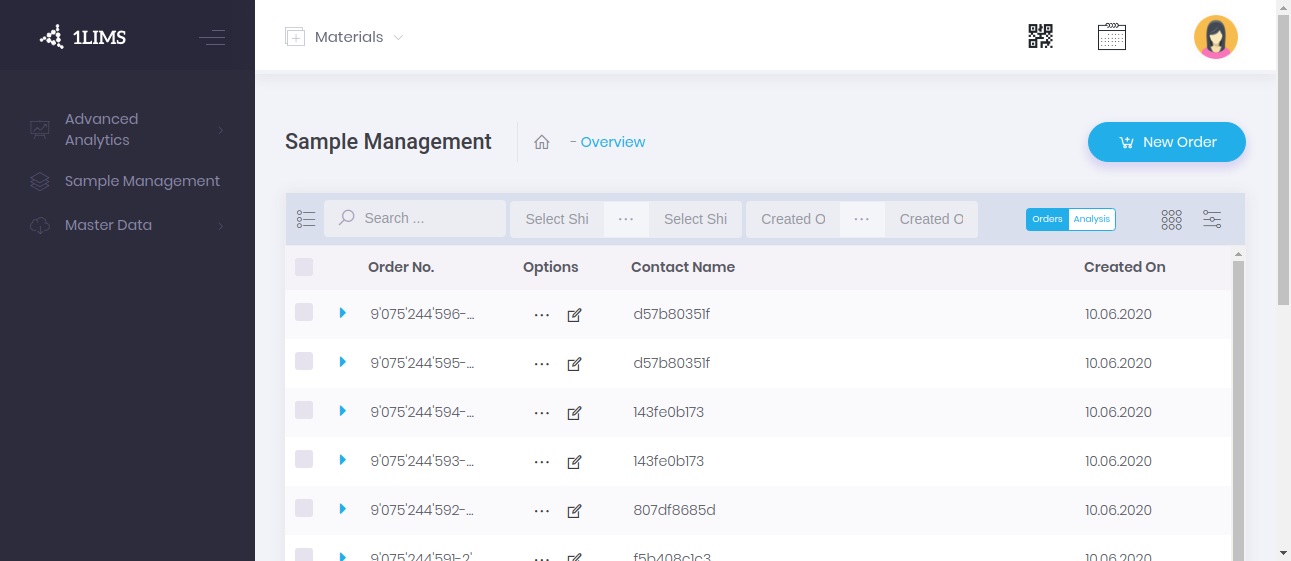
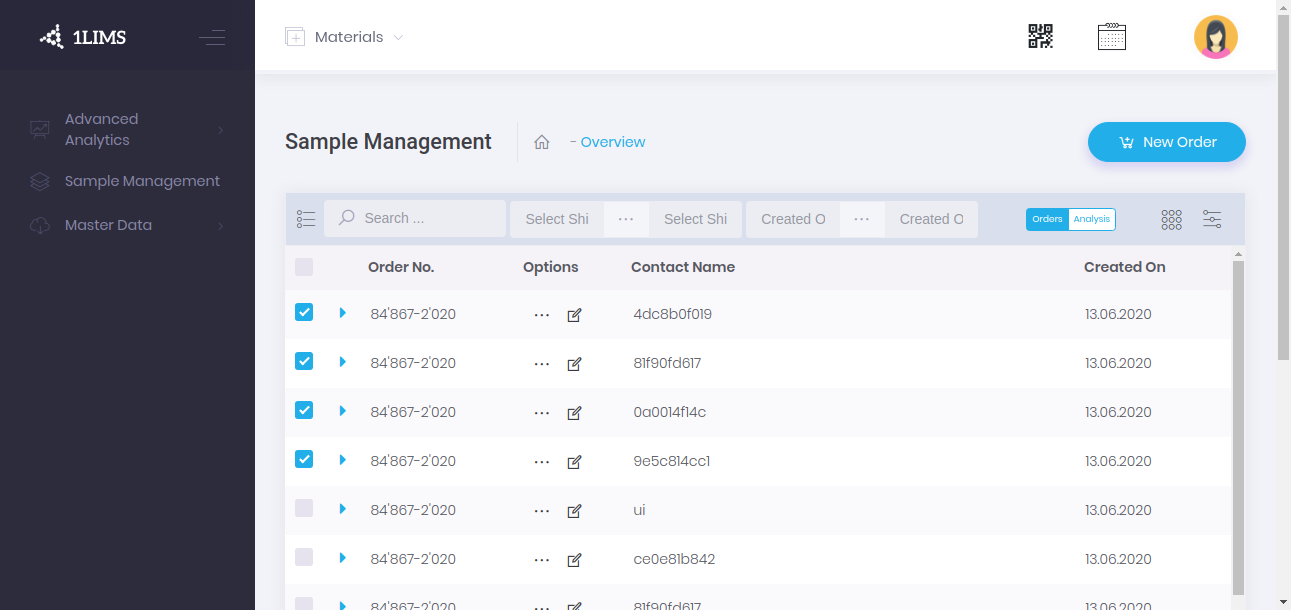
need to update formatted_orders_list

diff --git a/ui_testing/testcases/basic_tests/test06_orders.py b/ui_testing/testcases/basic_tests/test06_orders.py
@@ -2419,16 +2419,30 @@ class OrdersTestCases(BaseTest):
 
         LIMS-8085
         """
-        self.info(' * Download XSLX sheet')
+        self.info('select random order')
+        rows = self.order_page.select_random_ordered_multiple_table_rows()
+        rows_data = rows[0]
+        orders_no = [order['Order No.'] for order in rows_data]
+        order_data_list = []
+        for i in range(0, len(rows_data)):
+            order_dict = rows[0][i]
+            self.base_selenium.scroll()
+            self.order_page.open_child_table(rows[1][i])
+            child_table_data = self.order_page.get_table_data()
+            for sub_order in child_table_data:
+                order_dict.update(sub_order)
+                order_data_list.append(order_dict)
+
+            self.order_page.open_child_table(rows[1][i])
+        formatted_orders = self.order_page.match_format_to_sheet_format(order_data_list)
         self.order_page.download_xslx_sheet()
-        rows_data = self.order_page.get_table_rows_data()
-        for index in range(len(rows_data)):
-            self.info(' * Comparing the order no. {} '.format(index))
-            fixed_row_data = self.fix_data_format(rows_data[index].split('\n'))
+        for index in range(len(formatted_orders)):
+            import ipdb;ipdb.set_trace()
+            self.info('Comparing the order no {} '.format(formatted_orders[index][0]))
             values = self.order_page.sheet.iloc[index].values
-            fixed_sheet_row_data = self.fix_data_format(values)
-            for item in fixed_row_data:
-                self.assertIn(item, fixed_sheet_row_data)
+            self.assertCountEqual(values, formatted_orders[index])
+            for item in formatted_orders[index]:
+                self.assertIn(item, values)
 
 
 

diff --git a/ui_testing/pages/base_pages.py b/ui_testing/pages/base_pages.py
@@ -134,6 +134,29 @@ class BasePages:
             selected_rows_data.append(self.base_selenium.get_row_cells_dict_related_to_header(row=row))
         return selected_rows_data, selected_rows
 
+    def select_random_ordered_multiple_table_rows(self, element='general:table'):
+        _selected_rows_text = []
+        selected_rows_data = []
+        selected_rows = []
+        rows = self.base_selenium.get_table_rows(element=element)
+        no_of_rows = randint(min(2, len(rows)-1), min(5, len(rows)-1))
+        count = 0
+        self.info(' No. of selected rows {} '.format(no_of_rows))
+        while count < no_of_rows:
+            self.base_selenium.scroll()
+            row = rows[count]
+            row_text = row.text
+            if not row_text:
+                continue
+            if row_text in _selected_rows_text:
+                continue
+            count = count + 1
+            self.click_check_box(source=row)
+            _selected_rows_text.append(row_text)
+            selected_rows.append(row)
+            selected_rows_data.append(self.base_selenium.get_row_cells_dict_related_to_header(row=row))
+        return selected_rows_data, selected_rows
+
     def select_random_table_row(self, element='general:table'):
         self.info("select random row")
         rows = self.base_selenium.get_table_rows(element=element)

diff --git a/ui_testing/pages/order_page.py b/ui_testing/pages/order_page.py
@@ -569,4 +569,18 @@ class Order(Orders):
             row=suborder_row, table_element='order:suborder_table')
         return suborders_elements
 
+    def match_format_to_sheet_format(self, list):
+        formatted_orders_list = []
+        orders_list =[]
+        for order in list:
+            for key in order:
+                if key in ['', 'Options']:
+                    continue
+                if key in ['Contact Name', 'Test Plans', 'Departments', 'Test Units']:
+                    formatted_orders_list.append(order[key].replace(',\n', ' & '))
+                else:
+                    formatted_orders_list.append(order[key])
+            orders_list.extend({formatted_orders_list})
+            formatted_orders_list = []
 
+        return formatted_orders_list
